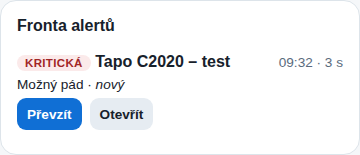
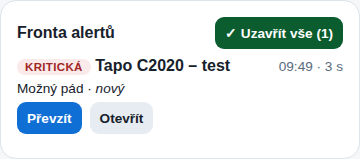
Hromadné uzavření alertů, domeček PTZ s náhradami, nahrávky jako obyčejný MP4 (ffmpeg) pro iPhone, přehrávač přežije překreslení
- sim-core closeAll(patientId|'' , by, result) → { pocet }; dispečink „✓ Uzavřít vše (N)“ v hlavičce fronty a
  „✓ Uzavřít alerty (N)“ v liště pod obrazem; sim.js closeAll; test
- onvif ptz('home'): GotoHomePosition → první předvolba (GetPresets/GotoPreset) → AbsoluteMove 0,0 → srozumitelná
  chyba; test tří variant
- src/remux.mjs: klip z go2rtc (fMP4) přes ffmpeg -c copy -movflags +faststart na obyčejný MP4 při ukládání
  (Safari na iPhonu, správná délka); bez ffmpeg zůstane původní; nahravky.uloz(remux); server wiring; test
- rodina/dispečink: přehrávač muted + playsInline + preload (iPhone spustí), v aplikaci rodiny přežije obnovu
  seznamu (li data-nahravka); CHANGELOG (2.7), nápověda (alerty, nahrávky), README (ffmpeg)

Claude-Session: https://claude.ai/code/session_013Q43w1EYgsA74FWdGJXT9h

diff --git a/public/proto/napoveda.js b/public/proto/napoveda.js
@@ -12,7 +12,7 @@ export const TEMATA = [
   { id: 'nouze', obrazky: [{ src: '/proto/napoveda/nouze.png', popis: 'Tlačítko Nouzový přístup 10 min v detailu kamery' }], nazev: 'Nouzový přístup', klicova: ['nouz', 'nouzovy', 'pad', 'sos', 'kriticky', 'bez souhlasu', '10 minut'],
     text: 'Nouzový přístup otevře plný obraz na 10 minut bez čekání na rodinu. Jde to jen při otevřeném kritickém alertu (pád, dlouhé ležení, SOS) a jen když rodina nouzový přístup předem povolila (přepínač „V nouzi plný obraz“ v aplikaci rodiny). Rodina dostane okamžitě zprávu, zásah je v historii (auditu). Tlačítko je v detailu kamery vedle žádosti o plný obraz.' },
   { id: 'alerty', obrazky: [{ src: '/proto/napoveda/fronta.png', popis: 'Fronta alertů vpravo: Převzít, Řeším, Uzavřít s výsledkem; červený pruh u kritických' }], nazev: 'Fronta alertů: převzít, řešit, uzavřít', klicova: ['alert', 'fronta', 'prevzit', 'prevzat', 'resim', 'uzavrit', 'uzavren', 'eskal', 'vysledek', 'plany poplach', 'vyjezd', 'zachran'],
-    text: 'Nový alert se objeví ve frontě vpravo a u kritických i v červeném pruhu nahoře se zvukem. Postup: Převzít (alert je váš, rodina vidí vaše jméno) → Řeším → Uzavřít s výsledkem (planý poplach, vyřešeno na dálku, výjezd pečovatele, záchranná služba, předáno rodině). Nepřevzatý kritický alert po 2 minutách eskaluje na zálohu a vedoucího. Informativní události (osoba, pohyb) do fronty nejdou, jsou jen v historii.' },
+    text: 'Otevřené alerty jde uzavřít hromadně: tlačítko „✓ Uzavřít vše“ v hlavičce Fronty alertů (všechny kamery) nebo „✓ Uzavřít alerty“ v liště pod obrazem kamery (jen ta kamera); zapíše se zadaný výsledek ke každému. Nový alert se objeví ve frontě vpravo a u kritických i v červeném pruhu nahoře se zvukem. Postup: Převzít (alert je váš, rodina vidí vaše jméno) → Řeším → Uzavřít s výsledkem (planý poplach, vyřešeno na dálku, výjezd pečovatele, záchranná služba, předáno rodině). Nepřevzatý kritický alert po 2 minutách eskaluje na zálohu a vedoucího. Informativní události (osoba, pohyb) do fronty nejdou, jsou jen v historii.' },
   { id: 'rodina', obrazky: [{ src: '/proto/napoveda/uzivatele.png', popis: 'Uživatelé rodiny v detailu skutečné kamery: založení účtu a pozvánka SMS' }], nazev: 'Uživatelé rodiny a pozvánka SMS', klicova: ['rodin', 'uzivatel', 'pozvank', 'sms', 'ucet', 'heslo', 'telefon', 'prihlasit rodinu', 'zapomn', 'odebrat', 'nedosla', 'nechodi', 'zkusebni', 'twilio'],
     text: 'V detailu skutečné kamery v sekci Komunikace je část „Uživatelé rodiny“. Zadejte jméno a telefon, zaškrtněte „poslat SMS ze serveru“ a založte účet: rodina dostane SMS s odkazem. Heslo v SMS není: rodina si ho zvolí sama po otevření odkazu (obrazovka „Zvolte si heslo“) a dál se přihlašuje telefonem a heslem. Odkaz platí 7 dní a je na jedno použití; otevřený na počítači, kde je přihlášený poskytovatel nebo jiný člen rodiny, přesto ukáže volbu hesla pro nového člena. Změna hesla: v aplikaci rodiny karta Můj účet → Změnit heslo. Zapomenuté heslo: „Nová pozvánka (nové heslo)“ pošle nový odkaz a staré heslo přestane platit. „Odebrat“ účet zruší a rodinu odhlásí. SMS odchází ze serveru přes Make a Twilio; když nedošla, otevřete Nastavení (ozubené kolečko) → SMS rodině a pošlete si zkušební SMS na vlastní číslo: hned uvidíte, jestli je SMS nastavená a jestli došla, případně důvod chyby.' },
   { id: 'sledovani', obrazky: [{ src: '/proto/napoveda/sledovani.png', popis: 'Sekce Nastavení v detailu kamery: Hlídat, Jen v hodinách, Nahrávat, SMS, E-mail' }], nazev: 'Sledování, nahrávání a upozornění (sekce Nastavení)', klicova: ['sledov', 'hlidat', 'nahrav', 'hodiny', 'vypnout udalost', 'nezapsala', 'prekroceni', 'cara', 'zakryti', 'necinnost', 'zatrhnout', 'nastaveni kamery', 'plac', 'zvuk', 'sklo', 'vozidlo', 'zvire', 'oblast', 'vstup', 'detekce', 'co kamera umi'],
@@ -22,7 +22,7 @@ export const TEMATA = [
   { id: 'poznamky', obrazky: [{ src: '/proto/napoveda/komunikace.png', popis: 'Sekce Komunikace v detailu kamery: poskytovatel, poznámka ke klientovi, dál uživatelé rodiny, kontakty a poznámky' }, { src: '/proto/napoveda/poznamky.png', popis: 'Poznámky dispečinku: pole, tlačítko a seznam s časem a jménem' }], nazev: 'Poznámky dispečinku ke kameře', klicova: ['poznamk', 'zapsat', 'zapis', 'zaznam', 'log', 'co jsem udelal', 'deník', 'denik'],
     text: 'V sekci Komunikace v detailu je „Poznámka ke klientovi“: trvalá informace (zdravotní stav, na co dát pozor), kterou poskytovatel upraví tlačítkem Upravit; změna se zapíše do logu. Novou poznámku píšete v sekci Monitoring pod tlačítky (pole „Přidat poznámku“, nebo Cmd+Enter), abyste při řešení alertu nemuseli přepínat sekce: datum, čas a vaše jméno (z Nastavení) se doplní samy. Poznámky se zapisují do logu kamery jako události a jsou vidět i v historii v Monitoringu a samostatně v Komunikaci → Poznámky dispečinku, nejnovější nahoře. Vidí je všichni dispečeři; rodina je v historii nevidí, jsou interní pro poskytovatele. Hodí se na hovory s rodinou, výjezdy, domluvené kontroly.' },
   { id: 'nahravky', nazev: 'Nahrávky na serveru a na Google Disku', klicova: ['nahravk', 'google', 'disk', 'video', 'zaznam', 'misto', 'limit', 'plny disk', 'pojistka', 'ulozit obraz', 'nahrat ted', 'adresar', 'kam se uklada'],
-    text: 'Nahrávky z kamer mají dvě úložiště, volí se v Nastavení (ozubené kolečko) → Úložiště nahrávek. Na serveru (doporučeno): soubory jsou na našem serveru šifrované, přehrávají se jen v téhle aplikaci (dispečink, rodina u své kamery) tlačítkem ▶ přehrát, každé přehrání se zapíše do auditu (kdo, kdy) a po době uchování (Uchovat nahrávky, výchozí 30 dnů) se samy smažou; nahrávka z hlavní aplikace zůstává v režimu, ve kterém byla pořízena. Google Disk poskytovatele: stejný účet, jaký má poskytovatel připojený v portálu Péče doma plus v menu Export dat (nic dalšího se v Google nenastavuje). V Nastavení je část Nahrávky na Google Disku: ukazuje připojený účet a tlačítkem Založit adresář vznikne na Disku adresář „Famicura Kamera – poskytovatel“; jiný adresář jde založit až po Odpojit adresář (odpojený na Disku zůstává i s nahrávkami). Nahrává server, ne prohlížeč: po každé události, která má v sekci Nastavení detailu kamery zatrženo Nahrávat, uloží tolik sekund obrazu, kolik je v Nastavení (Nahrávka po události, výchozí 15 s); v detailu kamery je také tlačítko Nahrát teď. Soukromí: nahrává se jen při plném obrazu povoleném rodinou, nebo při kritické události (pád, SOS) s povoleným nouzovým přístupem – jinak je u události poznámka, proč se nenahrálo. Odkaz 🎞 je u události v historii a v seznamu Nahrávky v detailu kamery; soubor se otevře na Google Disku. Nahrávky z hlavní aplikace (ruční, podle plánu) se na Disk ukládají také. Místo na serveru hlídá trojí mazání: po době uchování (Uchovat nahrávky, dnů), nad limit místa poskytovatele (Limit místa nahrávek, GB; 0 = bez limitu) se mažou nejstarší nahrávky poskytovatele, a když je na celém serveru volno méně než pojistka správce (výchozí 5 GB), mažou se nejstarší nahrávky napříč poskytovateli. V takovém případě svítí nahoře v dispečinku oranžový proužek; co s tím: zkrátit dobu uchování, zvýšit limit, nebo zapnout kopii na Google Disk jako archiv. Nahrávku ze serveru jde také stáhnout do počítače (⬇ stáhnout u nahrávky; soubor .mp4 se jmenuje podle kamery, data, času a události); stažení se zapíše do auditu stejně jako přehrání. Nahrávka po události začíná před ní: server drží posledních pár sekund obrazu každé kamery a přidá nastavený náběh (⚙ Nastavení → Obraz před událostí, 0–10 s, výchozí 5), takže na klipu je i samotné překročení čáry; délka v seznamu je náběh plus sekundy po události. Tlačítko Nahrát 15 s v aplikaci rodiny i Nahrát teď v dispečinku pořídí nahrávku ze serveru stejnou cestou a do historie zapíší řádek „Ruční nahrávka“. Když se nahrávka po události nepořídí, je důvod u události v historii (🎞 nenahráno: …) i v seznamu Nahrávky: nejčastěji rodina nepovolila plný obraz (nahrává se jen při plném obrazu, nebo u kritické události s povoleným nouzovým přístupem), nebo kamera v tu chvíli neposlala obraz. Podrobnosti má správce serveru v logu (pm2 logs famicura-tapo, řádky [nahravky]).' },
+    text: 'Nahrávky z kamer mají dvě úložiště, volí se v Nastavení (ozubené kolečko) → Úložiště nahrávek. Na serveru (doporučeno): soubory jsou na našem serveru šifrované, přehrávají se jen v téhle aplikaci (dispečink, rodina u své kamery) tlačítkem ▶ přehrát, každé přehrání se zapíše do auditu (kdo, kdy) a po době uchování (Uchovat nahrávky, výchozí 30 dnů) se samy smažou; nahrávka z hlavní aplikace zůstává v režimu, ve kterém byla pořízena. Google Disk poskytovatele: stejný účet, jaký má poskytovatel připojený v portálu Péče doma plus v menu Export dat (nic dalšího se v Google nenastavuje). V Nastavení je část Nahrávky na Google Disku: ukazuje připojený účet a tlačítkem Založit adresář vznikne na Disku adresář „Famicura Kamera – poskytovatel“; jiný adresář jde založit až po Odpojit adresář (odpojený na Disku zůstává i s nahrávkami). Nahrává server, ne prohlížeč: po každé události, která má v sekci Nastavení detailu kamery zatrženo Nahrávat, uloží tolik sekund obrazu, kolik je v Nastavení (Nahrávka po události, výchozí 15 s); v detailu kamery je také tlačítko Nahrát teď. Soukromí: nahrává se jen při plném obrazu povoleném rodinou, nebo při kritické události (pád, SOS) s povoleným nouzovým přístupem – jinak je u události poznámka, proč se nenahrálo. Odkaz 🎞 je u události v historii a v seznamu Nahrávky v detailu kamery; soubor se otevře na Google Disku. Nahrávky z hlavní aplikace (ruční, podle plánu) se na Disk ukládají také. Místo na serveru hlídá trojí mazání: po době uchování (Uchovat nahrávky, dnů), nad limit místa poskytovatele (Limit místa nahrávek, GB; 0 = bez limitu) se mažou nejstarší nahrávky poskytovatele, a když je na celém serveru volno méně než pojistka správce (výchozí 5 GB), mažou se nejstarší nahrávky napříč poskytovateli. V takovém případě svítí nahoře v dispečinku oranžový proužek; co s tím: zkrátit dobu uchování, zvýšit limit, nebo zapnout kopii na Google Disk jako archiv. Nahrávku ze serveru jde také stáhnout do počítače (⬇ stáhnout u nahrávky; soubor .mp4 se jmenuje podle kamery, data, času a události); stažení se zapíše do auditu stejně jako přehrání. Nahrávka po události začíná před ní: server drží posledních pár sekund obrazu každé kamery a přidá nastavený náběh (⚙ Nastavení → Obraz před událostí, 0–10 s, výchozí 5), takže na klipu je i samotné překročení čáry; délka v seznamu je náběh plus sekundy po události. Nahrávky se při uložení převádějí na obyčejný MP4, aby je přehrál i iPhone (Safari) a po stažení každý přehrávač; přehrávač v aplikaci startuje ztlumený (nahrávka zvuk nemá). Tlačítko Nahrát 15 s v aplikaci rodiny i Nahrát teď v dispečinku pořídí nahrávku ze serveru stejnou cestou a do historie zapíší řádek „Ruční nahrávka“. Když se nahrávka po události nepořídí, je důvod u události v historii (🎞 nenahráno: …) i v seznamu Nahrávky: nejčastěji rodina nepovolila plný obraz (nahrává se jen při plném obrazu, nebo u kritické události s povoleným nouzovým přístupem), nebo kamera v tu chvíli neposlala obraz. Podrobnosti má správce serveru v logu (pm2 logs famicura-tapo, řádky [nahravky]).' },
   { id: 'log', nazev: 'Log událostí za období a stažení do Excelu', klicova: ['log', 'excel', 'xlsx', 'export', 'stahnout', 'obdobi', 'historie', 'vypis udalosti', 'od do', 'sesit', 'tabulka udalosti'],
     text: 'V detailu kamery v bloku Historie (sekce Monitoring) je lišta s obdobím: zadejte datum od a do (stačí jedno), klepněte na Zobrazit období a historie se načte ze serverové databáze za celé období, ne jen posledních 12 událostí. Zaškrtnutím „všechny kamery“ vidíte události celého dispečinku (u řádků je název kamery). Stáhnout do Excelu uloží sešit .xlsx se všemi údaji (datum, čas, kamera, událost, závažnost, zdroj, text z kamery, stav, kdo převzal, časy převzetí a uzavření, výsledek, poznámka, eskalace, kolik SMS a e-mailů odešlo, nahrávka a její důvod, původ kamera/simulace); bez zadaného období se stáhne celá historie. Čipy nad lištou (Vše, Kritické, Varování, Kamera, Analýza, S nahrávkou, S upozorněním, Souhlasy, Poznámky) filtrují typ událostí stejně jako v aplikaci rodiny, a to živě i ve zvoleném období; Excel vždy obsahuje celé období bez filtru. Tlačítko Zpět na posledních 12 vrátí živý přehled. Rodina log nemá, jen svou historii v aplikaci.' },
   { id: 'otaceni', nazev: 'Otáčení kamery', klicova: ['otoc', 'otac', 'natoc', 'sipk', 'ptz', 'pan', 'tilt', 'vychozi poloha', 'pohnout kamerou'],

diff --git a/public/proto/dispecink.js b/public/proto/dispecink.js
@@ -82,7 +82,7 @@ function prehravaniOvladani(el, pid) {
     const li = a.closest('li'); const stare = li.querySelector('video');
     if (stare) { stare.pause(); stare.remove(); return; }
     el.querySelectorAll('video').forEach((v) => { v.pause(); v.remove(); });
-    const v = document.createElement('video'); v.controls = true; v.autoplay = true; v.playsInline = true; v.className = 'prehravac'; v.src = `/api/nahravky/${encodeURIComponent(a.dataset.prehrat)}/soubor`;
+    const v = document.createElement('video'); v.controls = true; v.autoplay = true; v.muted = true; v.playsInline = true; v.className = 'prehravac'; v.src = `/api/nahravky/${encodeURIComponent(a.dataset.prehrat)}/soubor`;
     v.onerror = () => toast('Nahrávku se nepodařilo přehrát (soubor už na serveru není, nebo prohlížeč formát neumí).', 'crit');
     li.append(v);
   }; });
@@ -405,6 +405,14 @@ function bindQueueButtons(root) {
   root.querySelectorAll('[data-call]').forEach((b) => { b.onclick = (ev) => { ev.stopPropagation(); const u = (rodinaUzivatele.get(b.dataset.call) || [])[0]; toast(u ? `Volám rodině: ${u.jmeno}, ${u.telefon.replace(/(\d{3})(\d{3})(\d{3})/, '$1 $2 $3')} (simulace hovoru)` : 'Volám rodině: Petr Novák, 777 123 456 (simulace, účet rodiny ještě není založený)'); }; });
 }
 
+async function uzavritVse(patientId, pocet) {
+  const kam = patientId ? `u kamery ${esc(sim.patient(patientId)?.name || '')}` : 'u všech kamer';
+  const vysledek = prompt(`Uzavřít ${pocet} otevřených alertů ${kam.replace(/<[^>]+>/g, '')}? Napište výsledek (zapíše se ke každému):`, 'planý poplach');
+  if (vysledek === null) return;
+  const r = await sim.closeAll(patientId || '', ME(), vysledek.trim() || 'hromadně uzavřeno');
+  toast(`Uzavřeno ${r?.pocet ?? pocet} alertů.`);
+}
+$('queueVse')?.addEventListener('click', () => { const n = sim.state.events.filter((e) => e.state !== 'uzavřen' && KINDS[e.kind] && KINDS[e.kind].level !== 'info' && visible(sim.patient(e.patientId) || {})).length; uzavritVse('', n); });
 function renderQueue() {
   if (!zobrazuj) return;
   const s = sim.state;
@@ -420,6 +428,8 @@ function renderQueue() {
       <div class="small">${esc(eventText(e))}${e.real ? ' <span class="badge ok">skutečná</span>' : ''} · <em>${esc(e.state)}</em>${e.by ? ' – ' + esc(e.by) : ''}${e.escalated ? ' · <span class="esc">eskalováno</span>' : ''}</div>
       <div class="row">${btn}<button class="sm sec" data-open="${e.patientId}">Otevřít</button></div></li>`;
   }).join('') || '<li class="muted">Žádný otevřený alert. Klid.</li>';
+  // hromadné uzavření: tlačítko v hlavičce fronty (jen když je co uzavřít)
+  const hlava = $('queueVse'); if (hlava) { hlava.classList.toggle('hide', !items.length); hlava.textContent = `✓ Uzavřít vše (${items.length})`; }
   if (setHtml($('queue'), queueHtml)) bindQueueButtons($('queue'));
   refreshAgo($('queue'));
 }
@@ -544,6 +554,8 @@ function renderDetail(rebuild = false) {
     btns.push(pending ? `<span class="badge warn">žádost čeká na rodinu (do ${fmtT(pending.until)})</span>` : `<button class="sm" id="askG">Požádat rodinu o plný obraz</button>`);
     btns.push(`<button class="sm bad" id="emerg" ${p.consent.nouze && crit ? '' : 'disabled'} title="${p.consent.nouze ? 'jen při otevřeném kritickém alertu' : 'rodina nouzový přístup nepovolila'}">Nouzový přístup 10 min</button>`);
   }
+  const otevrene = openAlerts(p.id).length;
+  if (otevrene) btns.push(`<button class="sm ok" id="closeAllCam" title="uzavře všechny otevřené alerty této kamery jedním výsledkem">✓ Uzavřít alerty (${otevrene})</button>`);
   if (sim.naServeru && p.real) btns.push(`<button class="sm sec" id="recNow" ${mode === 'full' ? '' : 'disabled'} title="${mode === 'full' ? 'server uloží obraz z kamery (na server nebo Google Disk podle Nastavení)' : 'jen při plném obrazu (rodina povolila ' + ({ none: 'žádný obraz', skeleton: 'drátěný model', blur: 'rozostření' }[mode] || mode) + ')'}">🎞 Nahrát teď (${s.poskytovatel?.nahravkaS || 15} s)</button>`);
   const changed = setHtml(d.querySelector('#dbtn'), btns.join(' '));
   if (changed) {
@@ -562,6 +574,7 @@ function renderDetail(rebuild = false) {
     d.querySelector('#emergNo')?.addEventListener('click', () => { emergOpen = false; renderDetail(); });
     d.querySelector('#emergYes')?.addEventListener('click', () => { emergOpen = false; sim.emergencyAccess(p.id, `Dispečerka ${ME()}`); });
     d.querySelector('#endG')?.addEventListener('click', () => sim.endGrant(p.id, `Dispečerka ${ME()}`));
+    d.querySelector('#closeAllCam')?.addEventListener('click', () => uzavritVse(p.id, openAlerts(p.id).length));
     d.querySelector('#recNow')?.addEventListener('click', async (ev) => {
       const b = ev.currentTarget; b.disabled = true; const puv = b.textContent; b.textContent = 'Nahrávám…';
       try {

diff --git a/public/proto/rodina.js b/public/proto/rodina.js
@@ -371,14 +371,19 @@ async function nactiNahravky(vynutit = false) {
     html = j.nahravky.filter((n) => !n.chyba).map((n) => {
       const co = n.druh && KINDS[n.druh] ? KINDS[n.druh].label : n.zdroj === 'rucni' ? 'ruční' : n.zdroj === 'plan' ? 'plán' : 'událost';
       const kde = n.uloziste === 'server' ? `<a href="#" data-prehrat="${esc(n.id)}">▶ přehrát</a>` : n.url ? `<a href="${esc(n.url)}" target="_blank" rel="noopener">🎞 otevřít na Google Disku</a>` : '';
-      return `<li class="info"><span class="when">${fmtDT(n.cas)}</span><span class="grow">${esc(co)}${n.delkaS ? ` · ${n.delkaS} s` : ''} · ${kde}</span></li>`;
+      return `<li class="info" data-nahravka="${esc(n.id)}"><span class="when">${fmtDT(n.cas)}</span><span class="grow">${esc(co)}${n.delkaS ? ` · ${n.delkaS} s` : ''} · ${kde}</span></li>`;
     }).join('') || '<li class="muted">Zatím žádná nahrávka.</li>';
   } catch (e) { html = `<li class="muted">Nahrávky se nepodařilo načíst: ${esc(e.message)}</li>`; }
   if (html !== nahravkyCache.html) nahravkyCache.ver = Date.now();
   nahravkyCache.html = html;
   card.classList.remove('hide');
   const el = $('nahravkySeznam');
-  if (el.dataset.ver !== String(nahravkyCache.ver)) { el.innerHTML = html; el.dataset.ver = String(nahravkyCache.ver); prehravaniOvladani(el); }
+  if (el.dataset.ver !== String(nahravkyCache.ver)) {
+    // běžící přehrávač přežije překreslení seznamu (vrátí se do řádku své nahrávky)
+    const bezici = el.querySelector('video.prehravac'); const radek = bezici?.closest('li')?.dataset.nahravka;
+    el.innerHTML = html; el.dataset.ver = String(nahravkyCache.ver); prehravaniOvladani(el);
+    if (bezici && radek) { const li = el.querySelector(`li[data-nahravka="${CSS.escape(radek)}"]`); if (li) li.append(bezici); }
+  }
 }
 function prehravaniOvladani(el) {
   el.querySelectorAll('[data-prehrat]').forEach((a) => { a.onclick = (ev) => {
@@ -386,8 +391,9 @@ function prehravaniOvladani(el) {
     const li = a.closest('li'); const stare = li.querySelector('video');
     if (stare) { stare.pause(); stare.remove(); return; }
     document.querySelectorAll('video.prehravac').forEach((v) => { v.pause(); v.remove(); });
-    const v = document.createElement('video'); v.controls = true; v.autoplay = true; v.playsInline = true; v.className = 'prehravac'; v.src = `/api/nahravky/${encodeURIComponent(a.dataset.prehrat)}/soubor`;
-    v.onerror = () => toast('Nahrávku se nepodařilo přehrát.', 'crit');
+    // nahrávka je bez zvuku; muted je nutné, aby iPhone spustil přehrávání sám (jinak jen černý obraz)
+    const v = document.createElement('video'); v.controls = true; v.autoplay = true; v.muted = true; v.playsInline = true; v.preload = 'auto'; v.className = 'prehravac'; v.src = `/api/nahravky/${encodeURIComponent(a.dataset.prehrat)}/soubor`;
+    v.onerror = () => toast('Nahrávku se nepodařilo přehrát (soubor už na serveru není, nebo telefon formát neumí).', 'crit');
     li.append(v);
   }; });
 }

diff --git a/public/proto/sim-core.js b/public/proto/sim-core.js
@@ -258,6 +258,18 @@ const akce = {
     Object.assign(e, p);
     return {};
   },
+  /** Hromadně uzavře otevřené alerty (varování i kritické): jedné kamery (patientId), nebo všech (''). Vrací { pocet }. */
+  closeAll(s, now, patientId, by, result) {
+    const jen = patientId ? pid(patientId) : null;
+    const kdo = str(by, 80, 'by') || 'dispečink', vysledek = str(result, 80, 'result') || 'hromadně uzavřeno';
+    let pocet = 0;
+    for (const e of s.events) {
+      if (e.state === 'uzavřen' || !KINDS[e.kind] || KINDS[e.kind].level === 'info') continue;
+      if (jen && e.patientId !== jen) continue;
+      e.state = 'uzavřen'; e.by = kdo; e.result = vysledek; e.closedAt = now; if (!e.takenAt) e.takenAt = now; pocet++;
+    }
+    return { vysledek: { pocet }, zmena: pocet > 0 };
+  },
   ackNotification(s, now, id) { const n = s.notifications.find((x) => x.id === str(id, 60, 'id')); if (!n) return { zmena: false }; n.ack = true; return {}; },
   ackAll(s, now, patientId) { patientId = pid(patientId); for (const n of s.notifications) if (n.patientId === patientId) n.ack = true; return {}; },
 

diff --git a/public/proto/sim.js b/public/proto/sim.js
@@ -122,6 +122,7 @@ export const sim = {
   setAlert(eventId, patch) { return run('setAlert', [eventId, patch]); },
   ackNotification(id) { return run('ackNotification', [id]); },
   ackAll(patientId) { return run('ackAll', [patientId]); },
+  closeAll(patientId, by, result) { return run('closeAll', [patientId, by, result]); },
   setWatch(patientId, kind, patch) { return run('setWatch', [patientId, kind, patch]); },
   setKontakty(patientId, kontakty, by) { return run('setKontakty', [patientId, kontakty, by]); },
   setConsent(patientId, consent) { return run('setConsent', [patientId, consent]); },

diff --git a/public/proto/dispecink.html b/public/proto/dispecink.html
@@ -99,7 +99,7 @@
       <div class="c detail hide" id="detail"></div>
     </div>
     <div>
-      <div class="c"><h2>Fronta alertů</h2><ul class="list queue" id="queue"></ul></div>
+      <div class="c"><div class="row" style="justify-content:space-between;align-items:center"><h2 style="margin:0">Fronta alertů</h2><button class="sm ok hide" id="queueVse" title="uzavře všechny otevřené alerty jedním výsledkem">✓ Uzavřít vše</button></div><ul class="list queue" id="queue"></ul></div>
       <div class="c"><h2>Směna</h2><p class="small" id="smenaInfo"></p></div>
     </div>
   </div>

diff --git a/CHANGELOG.md b/CHANGELOG.md
@@ -22,6 +22,18 @@ dispečinku. Postup nové verze je v README, část „Verze“.
   SMS, e-mail i nahrávka odcházejí hned, i když nikdo nemá dispečink
   otevřený. Dříve bez otevřené stránky nahrávka vznikla až při příštím
   otevření, tedy pozdě.
+- **Hromadné uzavření alertů**: tlačítko „✓ Uzavřít vše (N)“ v hlavičce
+  Fronty alertů a „✓ Uzavřít alerty (N)“ v liště pod obrazem kamery; zeptá se
+  na výsledek a zapíše ho ke každému (akce `closeAll`).
+- **Domeček (výchozí poloha kamery)**: když kamera GotoHomePosition nemá,
+  server zkusí první uloženou předvolbu a pak střed (AbsoluteMove 0,0); když
+  nejde nic, srozumitelná hláška místo chyby 500.
+- **Přehrávání nahrávky v aplikaci rodiny (iPhone)**: klip z go2rtc se při
+  ukládání převede přes ffmpeg na obyčejný MP4 s hlavičkou napřed
+  (`src/remux.mjs`, bez překódování), který Safari přehraje a má správnou
+  délku; přehrávač startuje ztlumený (nahrávka zvuk nemá, jinak iPhone
+  nespustí přehrávání) a přežije obnovu seznamu. Bez ffmpeg na serveru
+  zůstane původní soubor (log).
 - **Až tři časová okna na událost** (Nastavení → Jen v hodinách, tlačítko +):
   např. 07:00–08:00, 12:00–13:00 a 19:00–20:00; událost se hlídá, když
   padne do kteréhokoli; rodina vidí všechna okna v „Co poskytovatel hlídá“.

diff --git a/README.md b/README.md
@@ -207,6 +207,9 @@ hodnota v `.env` obou aplikací; `vps-env.sh` ji vygeneruje a opíše
   (teď − náběh) + dalších N sekund, časy tfdt přepsané od nuly. Náběh
   nastavuje poskytovatel (⚙ Obraz před událostí, 0–10 s, výchozí 5). Bez
   běžícího zásobníku (kamera nejede) jde klip postaru od spuštění.
+  Klip se při ukládání převede přes `ffmpeg -c copy -movflags +faststart`
+  (`src/remux.mjs`) na obyčejný MP4, který přehraje Safari na iPhonu; bez
+  ffmpeg na VPS (`apt install ffmpeg`) zůstane fragmentovaný.
   Události kamer zpracovává server ve smyčce každé 2 s (`najemci.krok`),
   takže nahrávka, SMS i e-mail odcházejí hned i bez otevřené stránky.
 - **Soukromí:** `smiNahravat` – jen při plném obrazu povoleném rodinou,
